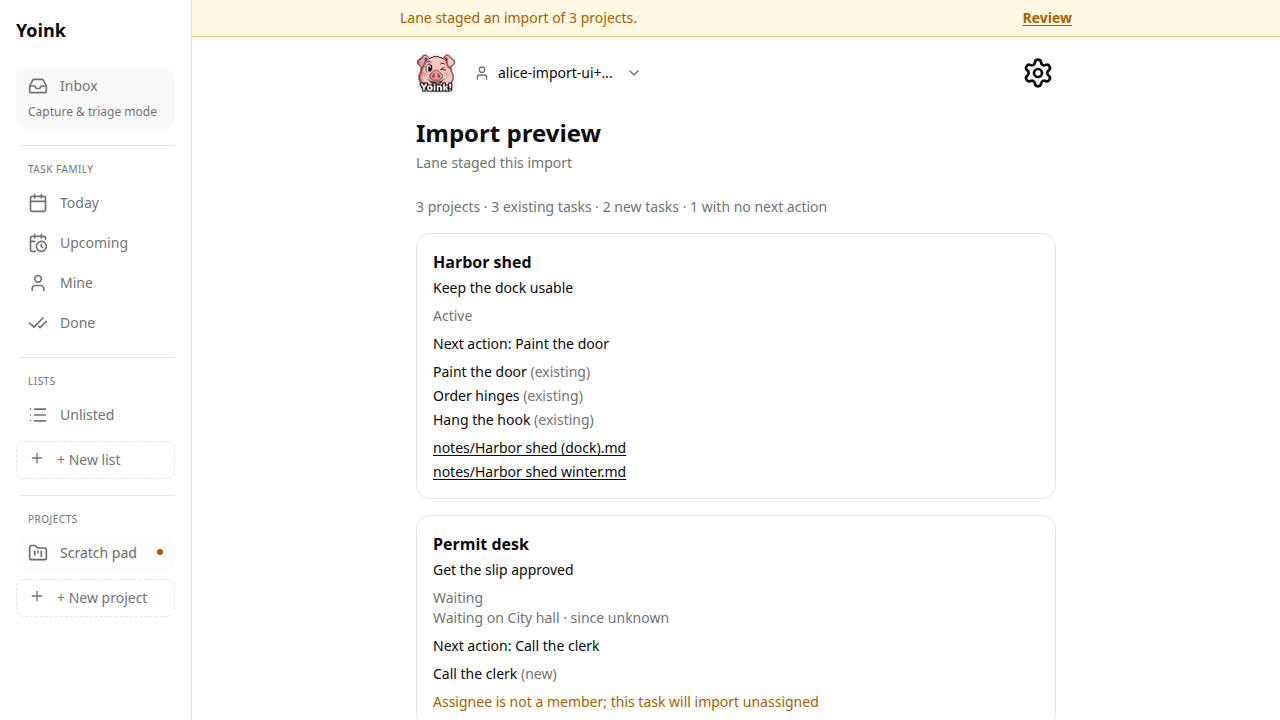
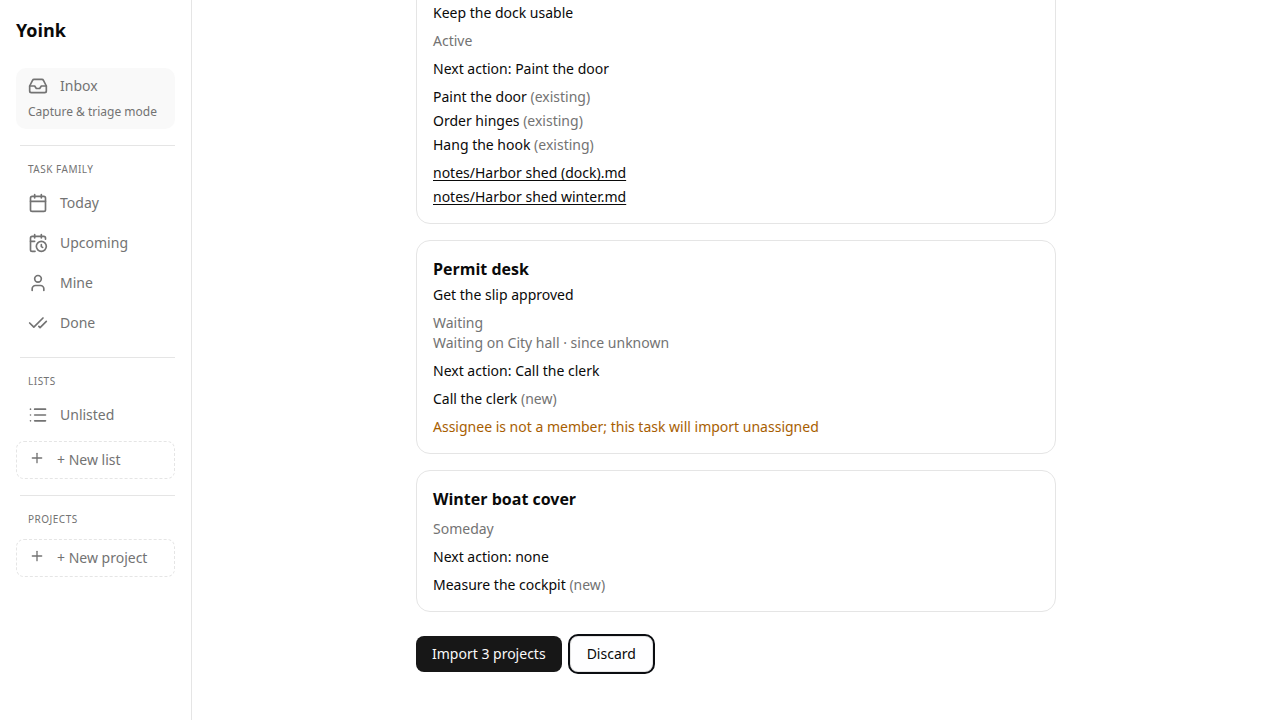
Refresh #139 walkthrough shots and empty All-projects wait
Retake Polly's import screenshots so preview, discard, history, waiting,
someday, and notebook edit states are complete. Wait on the Projects
heading so an empty All-projects page still settles.

diff --git a/packages/acceptance-testing/src/drivers/playwright/actor.ts b/packages/acceptance-testing/src/drivers/playwright/actor.ts
@@ -1736,9 +1736,11 @@ export const createPlaywrightActor = (
         }
       });
       const discard = page.locator('[data-import-discard]');
+      await discard.scrollIntoViewIfNeeded();
+      await expect(discard).toBeVisible();
       await discard.evaluate((el) => {
         el.setAttribute('data-screenshot-focus', '');
-        el.scrollIntoView({ block: 'end', inline: 'nearest' });
+        el.scrollIntoView({ block: 'center', inline: 'nearest' });
       });
     },
 
@@ -1764,8 +1766,15 @@ export const createPlaywrightActor = (
         }
       });
       const heading = page.locator('[data-place-heading]');
-      await heading.scrollIntoViewIfNeeded();
       await expect(heading).toBeVisible();
+      if (walkthroughViewport === 'phone') {
+        await heading.scrollIntoViewIfNeeded();
+        return;
+      }
+      const history = page.locator('[data-project-history-entry]').first();
+      if ((await history.count()) > 0) {
+        await history.scrollIntoViewIfNeeded();
+      }
     },
 
     async openProjectStatusSelect(visibleOptionName?: string): Promise<void> {
@@ -2313,7 +2322,7 @@ export const createPlaywrightActor = (
 
     async goToAllProjects(): Promise<void> {
       await page.goto('/projects');
-      await expect(page.locator('[data-projects-index]')).toBeVisible();
+      await expect(page.getByRole('heading', { name: 'Projects' })).toBeVisible();
     },
 
     async shouldSeeProjectOnAllProjects(input: {
